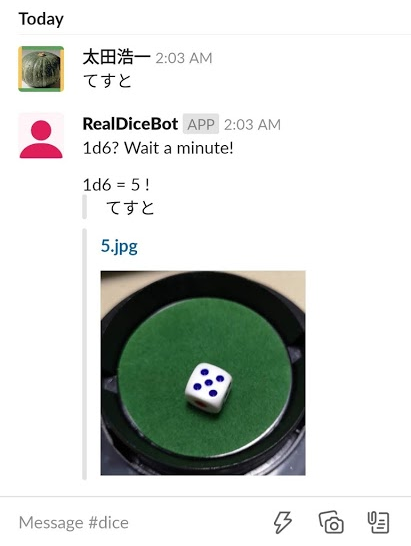
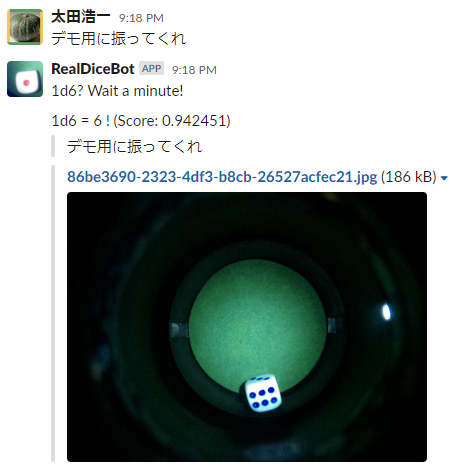
Update README

diff --git a/README.md b/README.md
@@ -2,6 +2,8 @@
 
 6面ダイスを1つ振って応答するだけのボットです。
 
+電動ダイスをAzure IoT EdgeデバイスのRaspberry Pi 3で制御して写真を撮っています。出目の判断もRaspberry Pi上で行っています。特に2と3の判断が甘いです。
+
 ## Twitter@RealDiceBot
 
 話しかけられるとダイスを振った結果を返信します。
